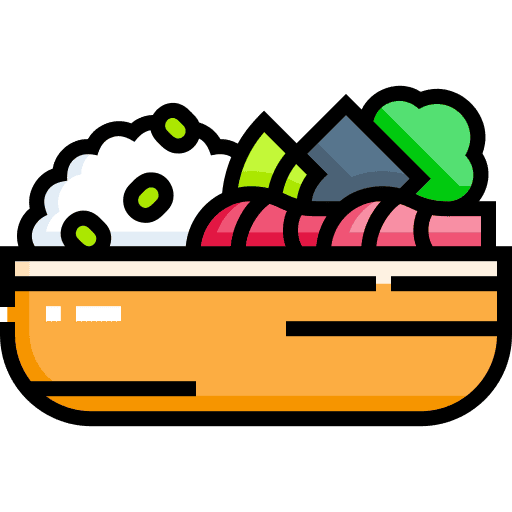
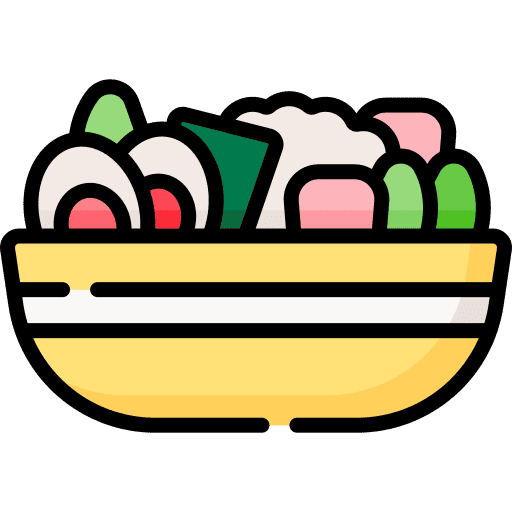
swap images, add credits

diff --git a/index.html b/index.html
@@ -217,6 +217,14 @@
 
   <script type="module" src="core/js/main.js"></script>
 
-  <!-- <a href='https://pngtree.com/freepng/chinese-dragon-head_5399712.html'>png image from pngtree.com/</a> -->
+    <!-- credits -->
+  <a href="https://www.flaticon.com/free-icons/gyoza" style="position:absolute;width:1px;height:1px;padding:0;margin:-1px;overflow:hidden;clip:rect(0,0,0,0);white-space:nowrap;border:0;">Gyoza icons created by Magnific - Flaticon</a>
+  <a href="https://www.flaticon.com/free-icons/matcha" style="position:absolute;width:1px;height:1px;padding:0;margin:-1px;overflow:hidden;clip:rect(0,0,0,0);white-space:nowrap;border:0;">Matcha icons created by Magnific - Flaticon</a>
+  <a href="https://www.flaticon.com/free-icons/onigiri" style="position:absolute;width:1px;height:1px;padding:0;margin:-1px;overflow:hidden;clip:rect(0,0,0,0);white-space:nowrap;border:0;">Onigiri icons created by Magnific - Flaticon</a>
+  <a href="https://www.flaticon.com/free-icons/kimbap" style="position:absolute;width:1px;height:1px;padding:0;margin:-1px;overflow:hidden;clip:rect(0,0,0,0);white-space:nowrap;border:0;">Kimbap icons created by Kise1ki - Flaticon</a>
+  <a href="https://www.flaticon.com/free-icons/poke" style="position:absolute;width:1px;height:1px;padding:0;margin:-1px;overflow:hidden;clip:rect(0,0,0,0);white-space:nowrap;border:0;">Poke icons created by Magnific - Flaticon</a>
+  <a href="https://www.flaticon.com/free-icons/sushi" style="position:absolute;width:1px;height:1px;padding:0;margin:-1px;overflow:hidden;clip:rect(0,0,0,0);white-space:nowrap;border:0;">Sushi icons created by amonrat rungreangfangsai - Flaticon</a>
+  <a href="https://pngtree.com/freepng/chinese-dragon-head_5399712.html" style="position:absolute;width:1px;height:1px;padding:0;margin:-1px;overflow:hidden;clip:rect(0,0,0,0);white-space:nowrap;border:0;">png image from pngtree.com/</a>
+
 </body>
 </html>

diff --git a/game/js/config.js b/game/js/config.js
@@ -41,8 +41,9 @@ FOOD_TYPES: [
   { id: 'noodles', src: 'game/assets/food/noodles.svg', weight: 5, scale: 1 },
   { id: 'ramen',   src: 'game/assets/food/ramen.svg',   weight: 5, scale: 1 },
   { id: 'sushi',   src: 'game/assets/food/sushi.svg',   weight: 4, scale: 1 },
-  { id: 'kimpab',  src: 'game/assets/food/kimpab.png',  weight: 5, scale: 1 },
+  { id: 'kimbap',  src: 'game/assets/food/kimbap.png',  weight: 5, scale: 1.2 },
   { id: 'onigiri', src: 'game/assets/food/onigiri.png', weight: 5, scale: 1 },
+  { id: 'gunkan', src: 'game/assets/food/gunkan.png', weight: 5, scale: 1 },
 
   // редкий
   { id: 'poke',    src: 'game/assets/food/poke.png',    weight: 3, scale: 1 },
